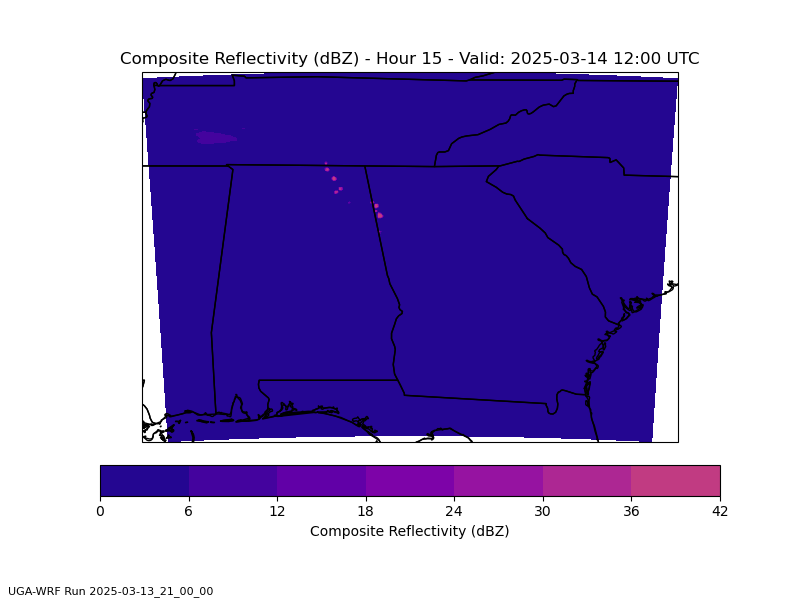
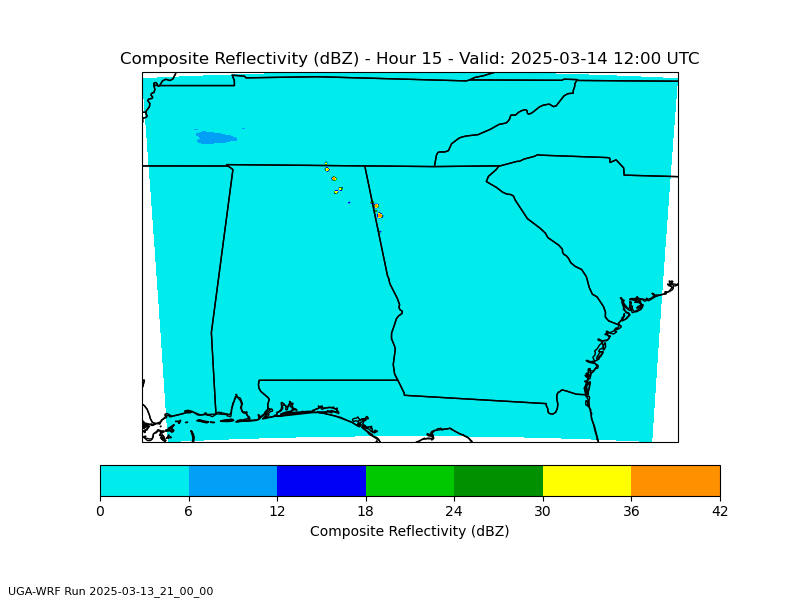
NWS reflec

diff --git a/image/ugawrf.py b/image/ugawrf.py
@@ -7,6 +7,8 @@ import cartopy.crs as ccrs
 import cartopy.feature as cfeature
 import numpy as np
 from datetime import datetime
+from metpy.plots import colortables
+from metpy.plots import ctables
 
 print("ugawrf data processing script")
 start_time = datetime.now()
@@ -48,7 +50,8 @@ def plot_variable(data, timestep, output_path):
         ax.set_title(f"2 Meter Temperature (°F) - Hour {timestep} - Valid: {forecast_time}")
         label = f"2M Temp (°F)"
     elif data.name == 'REFD_COM':
-        contour = plt.contourf(to_np(lons), to_np(lats), to_np(data), cmap='plasma', vmin=0, vmax=85)
+        refl_cmap = ctables.registry.get_colortable('NWSReflectivity')
+        contour = plt.contourf(to_np(lons), to_np(lats), to_np(data), cmap=refl_cmap, vmin=2, vmax=70)
         ax.set_title(f"Composite Reflectivity (dBZ) - Hour {timestep} - Valid: {forecast_time}")
         label = f"Composite Reflectivity (dBZ)"
     elif data.name == 'AFWA_TOTPRECIP':
